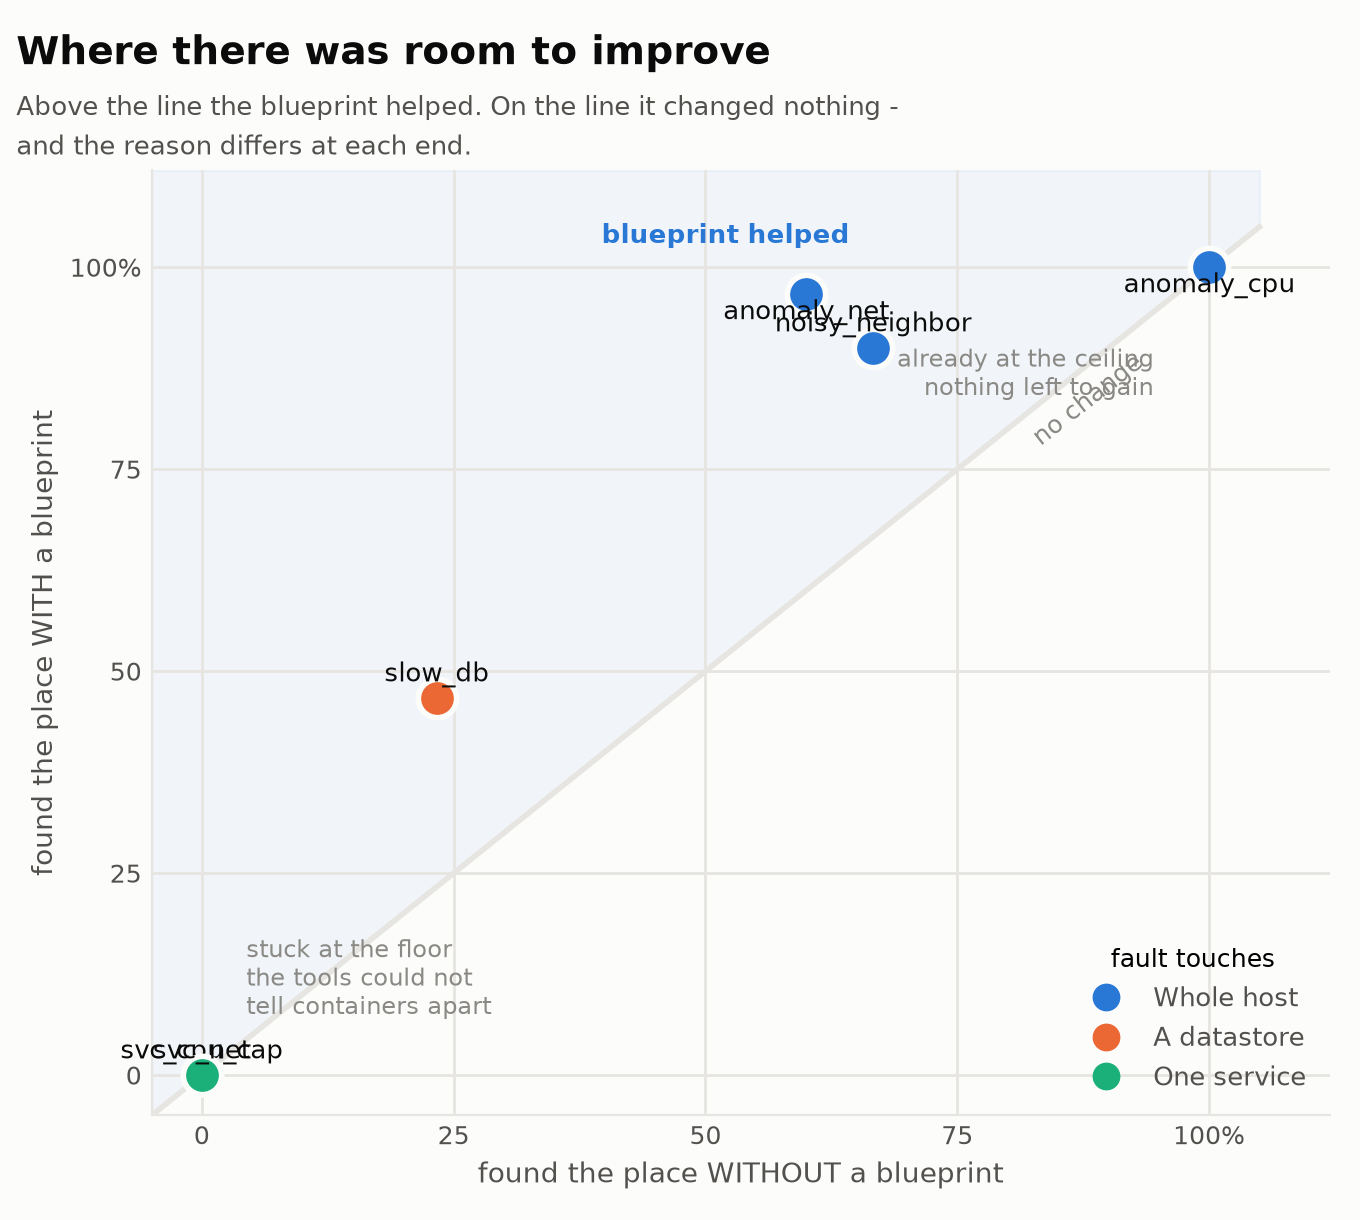
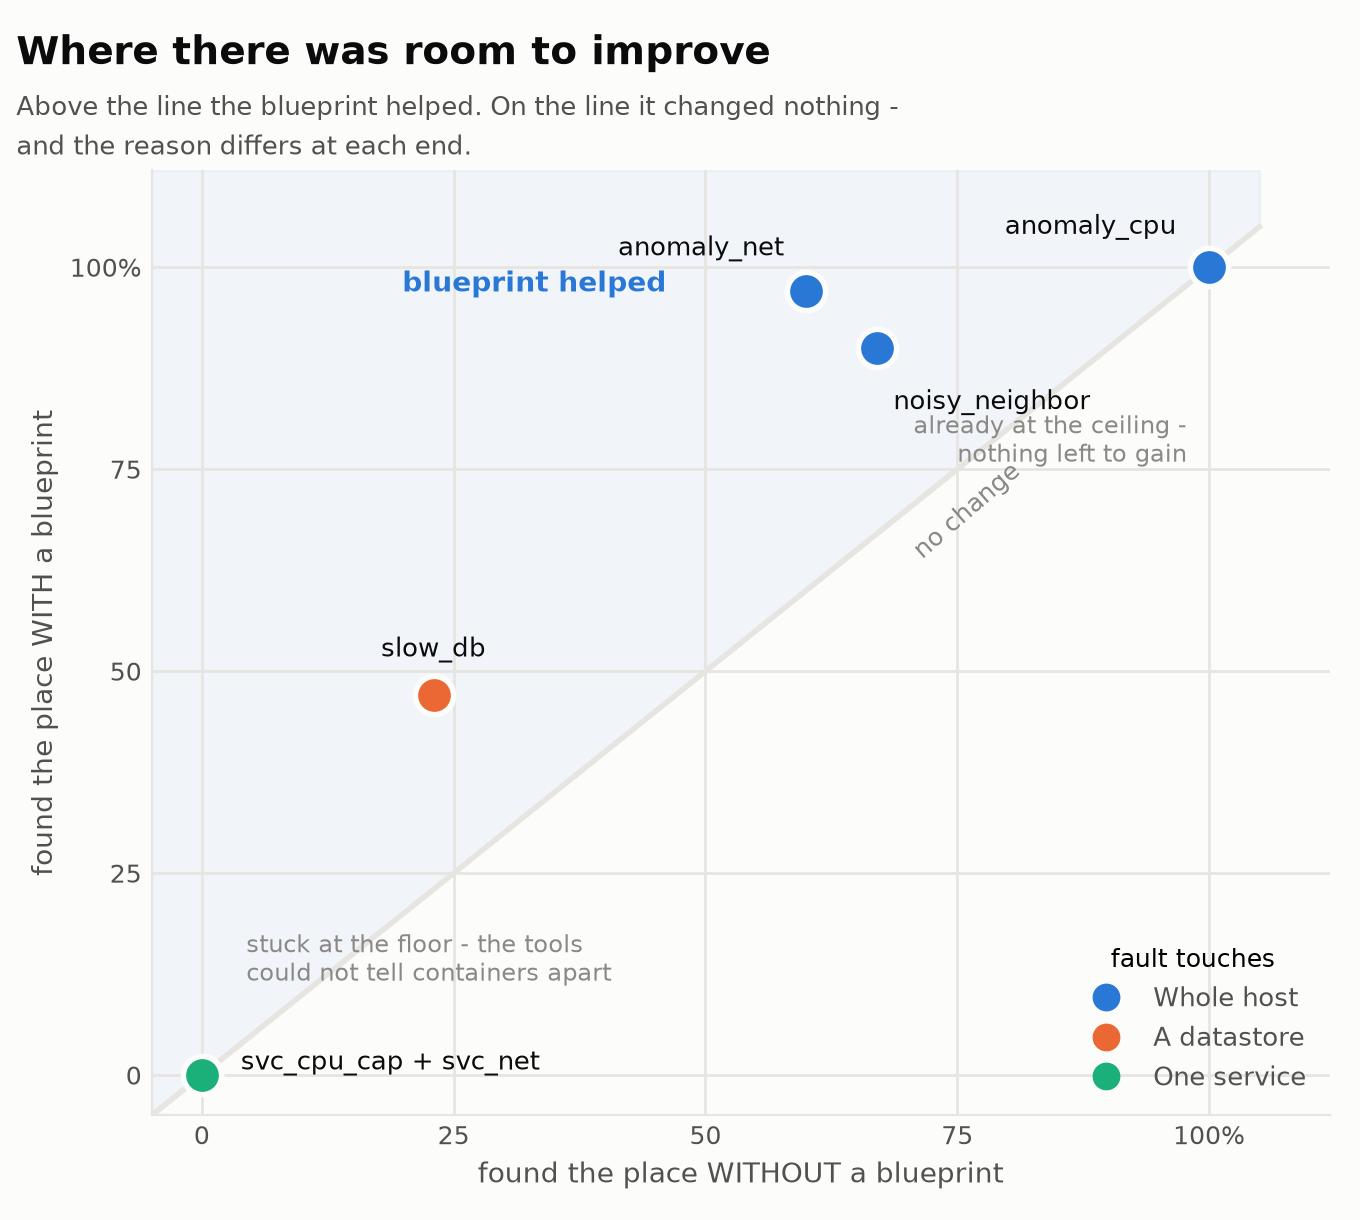
charts: last label nudges on the scatter

diff --git a/blueprints/lib/q2_charts.py b/blueprints/lib/q2_charts.py
@@ -259,7 +259,7 @@ def chart_ceiling(rows, path):
 
     # Hand-placed offsets. These four points sit close enough that automatic placement runs
     # labels into the diagonal or into each other.
-    NUDGE = {"anomaly_cpu": (-12, 12), "anomaly_net": (-8, 13), "noisy_neighbor": (6, -22),
+    NUDGE = {"anomaly_cpu": (-12, 12), "anomaly_net": (-8, 13), "noisy_neighbor": (-12, -6),
              "slow_db": (0, 14), "svc_net": (14, 2), "svc_cpu_cap": (14, 2)}
     for (a, b), probs in sorted(at.items()):
         ax.scatter([a], [b], s=190, color=COLOR_OF[probs[0]], zorder=3,
@@ -270,11 +270,11 @@ def chart_ceiling(rows, path):
         ax.annotate(label, (a, b), textcoords="offset points", xytext=(dx, dy),
                     ha=ha, fontsize=9.5, color=INK)
 
-    ax.text(33, 97, "blueprint helped", fontsize=10, color=S1, ha="center",
+    ax.text(27, 86, "blueprint helped", fontsize=10, color=S1, ha="center",
             fontweight="bold")
     ax.text(76, 64, "no change", fontsize=9, color=INK_MUTED, rotation=41, ha="center")
     ax.annotate("already at the ceiling -" + chr(10) + "nothing left to gain", (100, 100),
-                textcoords="offset points", xytext=(-8, -70), ha="right",
+                textcoords="offset points", xytext=(-6, -30), ha="right",
                 fontsize=8.5, color=INK_MUTED)
     ax.annotate("stuck at the floor - the tools" + chr(10) + "could not tell containers apart",
                 (0, 0), textcoords="offset points", xytext=(16, 34), ha="left",
